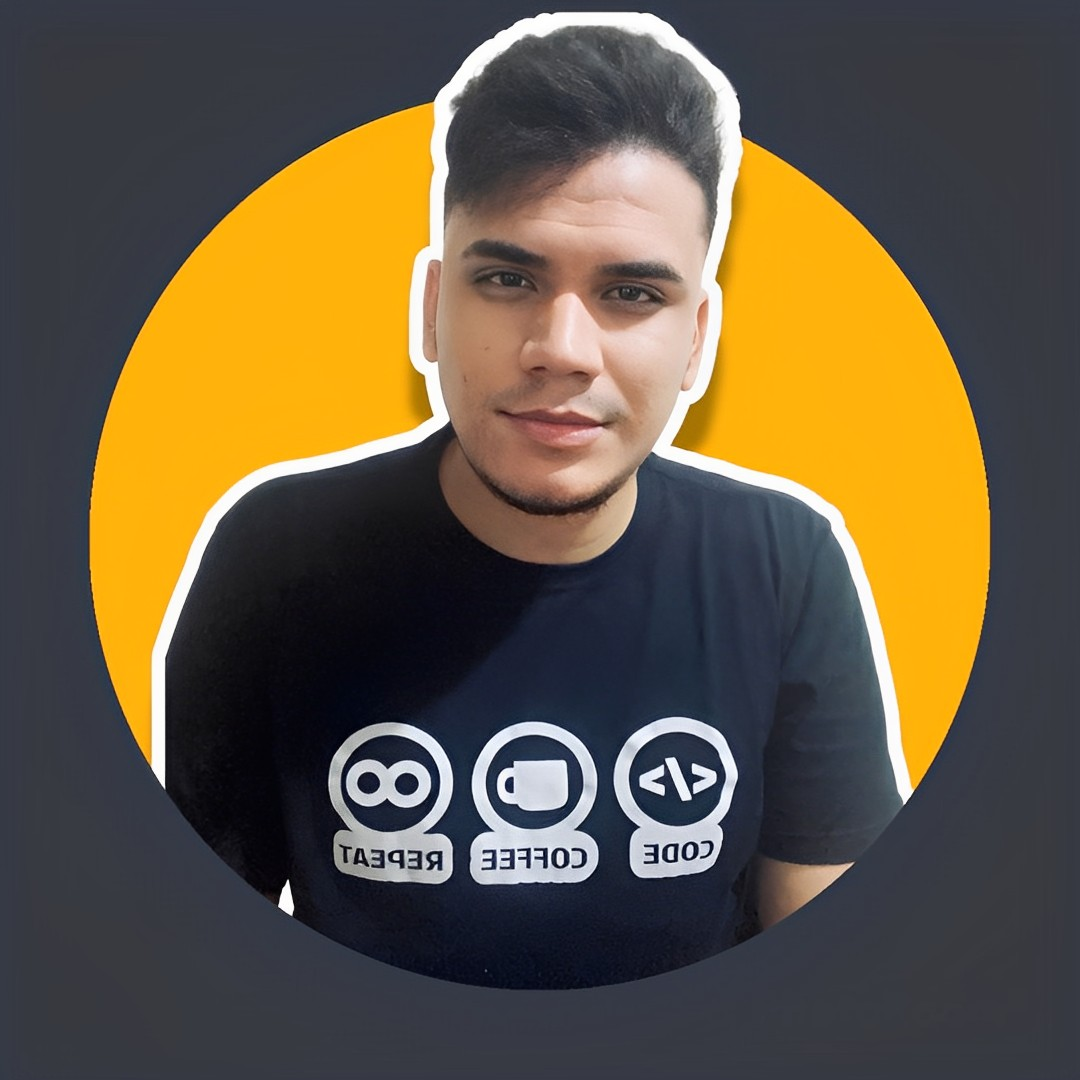
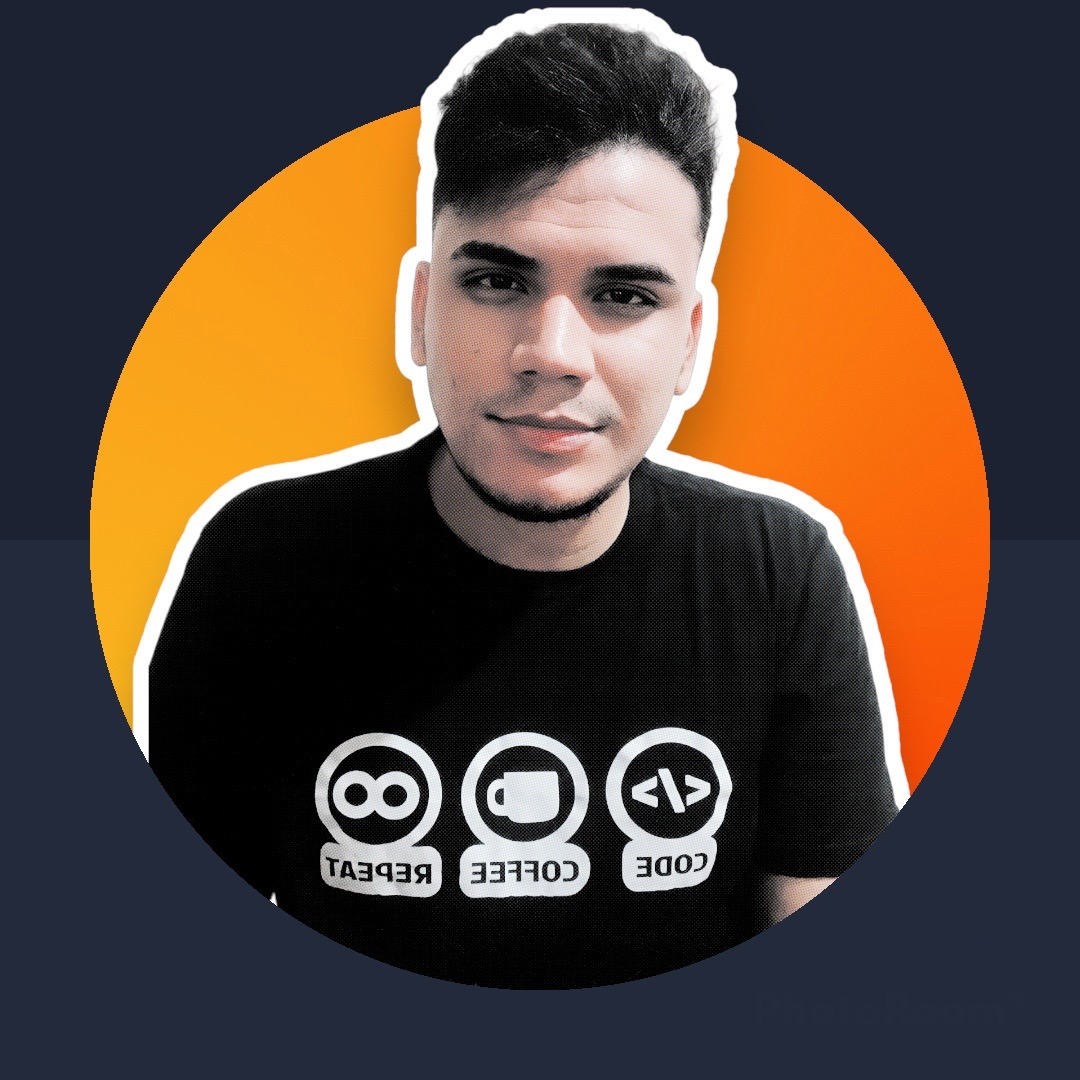
pages

diff --git a/style.css b/style.css
@@ -23,7 +23,7 @@ strong{
     --bg-color:#1f242d;
     --second-bg-color:#323946;
     --text-color:#fff;
-    --main-color: #ffb20c;
+    --main-color: #ff8800;
 }
 
 html{
@@ -172,7 +172,7 @@ span{
     display: flex;
     justify-content: space-evenly;
     align-items: center;
-    gap: 1rem;
+    gap: 5rem;
     background: var(--second-bg-color);
 }
 
